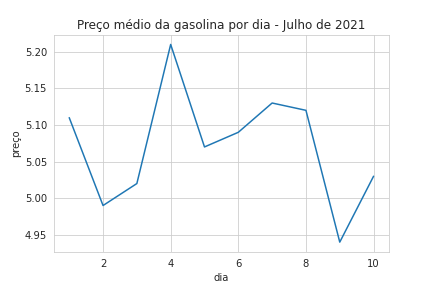
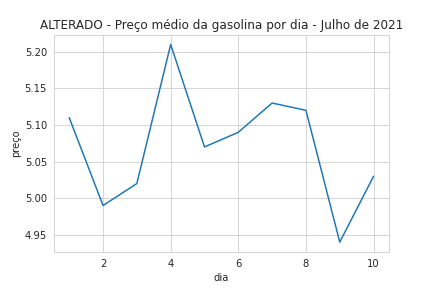
arquivos modificados

Changed region(s): [[0.0903, 0.0625, 0.9329, 0.125]]

diff --git a/gasolina.py b/gasolina.py
@@ -6,6 +6,6 @@ data = pd.read_csv('gasolina.csv')
 
 with sns.axes_style('whitegrid'):
 
-  grafico = sns.lineplot(data=data, x="dia", y="venda", palette="pastel", )
-  grafico.set(title='Preço médio da gasolina por dia - Julho de 2021', xlabel='dia', ylabel='preço');
+  grafico = sns.lineplot(data=data, x="dia", y="venda", )
+  grafico.set(title='ALTERADO - Preço médio da gasolina por dia - Julho de 2021', xlabel='dia', ylabel='preço');
   plt.savefig('gasolina.png')
